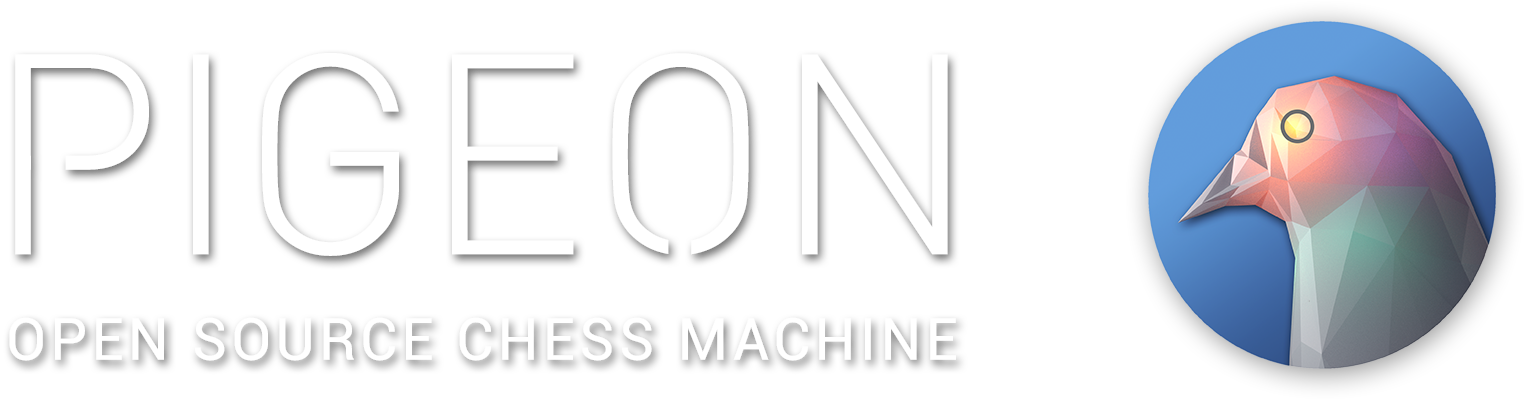
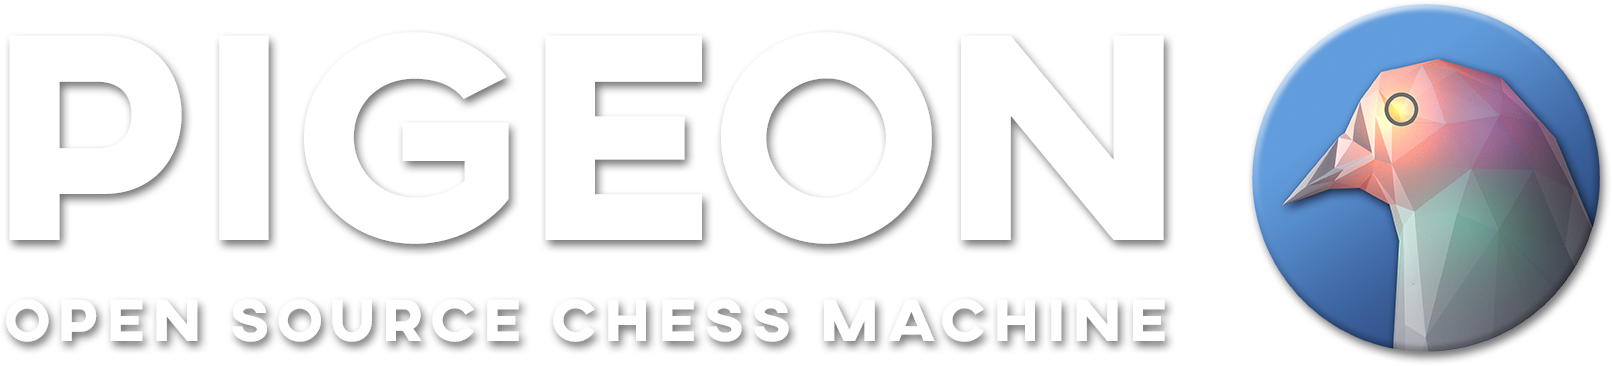
Landing page update

Changed region(s): [[0.0, 0.1202, 0.6767, 0.6913], [0.6767, 0.0, 1.0, 0.9918], [0.0, 0.8115, 0.7382, 0.9617]]

diff --git a/docs/index.html b/docs/index.html
@@ -3,10 +3,11 @@
 <head>
     <meta charset="utf-8">
     <meta name="viewport" content="width=device-width, initial-scale=1">
+    <link rel="shortcut icon" href="./favicon.png" />
     <title>Pigeon Chess Engine</title>
     <style>
         body {
-            font: 1.3em/1.4em Roboto, "Segoe UI", "Helvetica Neue", Helvetica, Arial, sans-serif;
+            font: 1.3em/1.5em "Segoe UI", "Helvetica Neue", Helvetica, Arial, sans-serif;
             color: #000;
             background-color: #eee;
             margin: 0 0;
@@ -47,13 +48,31 @@
             border: 0;            
             padding: 0.7em;
             display: inline-block;
-            border-radius: 0.5em;
+            border-radius: 0.25em;
         }        
         .buttonIcon {
             float: left;
             height: 1.5em;
             width: auto;
         }   
+        .bitmap-row {
+            display: flex;
+            flex-wrap: wrap;
+            gap: 7%;
+            justify-content: center;
+        }
+        .bitmap-row img {
+            width: 40%;
+            height: auto;
+            box-shadow: 0 4px 12px rgba(0, 0, 0, 0.35);
+            /* keeps pixel art crisp; remove if you want smoothing */
+            image-rendering: pixelated;
+        }
+        @media (max-width: 600px) {
+            .bitmap-row img {
+            width: 90%;
+            }
+        }        
     </style>
 </head>
 <body>
@@ -64,31 +83,36 @@
 </div>
 <div class="bodyArea">
     <div class="bodyInner">
-        <p>
             Pigeon is a 64-bit chess engine, written by <a href="https://www.linkedin.com/in/stuartriffle">Stuart Riffle</a>. 
-            It runs on Windows and Linux, and will plug into any UCI-compatible chess GUI (like <a href="http://www.pychess.org/">this one</a>).
-        </p>
-        <p>
-            The latest version is rated about <b>2000</b> against humans online, at both <a href="https://www.chessclub.com/">ICC</a> 
-            and <a href="http://freechess.org/">FICS</a>. That's pretty good, you know, for a bird.
-        </p>
-        <p>
-            When playing against <i>other</i> chess engines, Pigeon has a <a href="http://www.computerchess.org.uk/ccrl/404/">CCRL 40/4</a> 
-            rating around <b>1800</b>, which is... somewhat less good. But it always tries very hard.
-        </p>
-        <p>
+            It runs on Windows and Linux, and will plug into any UCI-compatible <a href="http://www.pychess.org/">chess GUI</a>.
             Full C++ <a href="https://github.com/StuartRiffle/pigeon">source code</a> is available on GitHub,
-            under the terms of the <a href="https://en.wikipedia.org/wiki/MIT_License">MIT license</a>, so knock yourself out.
-        </p>
-        <p id="buttonPart">
+            under the <a href="https://en.wikipedia.org/wiki/MIT_License">MIT license</a>.
+            <br><br>
+            <p id="buttonPart">
+                <a href="pigeon-1.5.0.zip">
+                    <span class="button">
+                        <img class="buttonIcon" src="download-logo.png" />&nbsp;&nbsp;Download Pigeon&nbsp;
+                    </span>
+                </a>    
+            </p>            
+            <br>
+            The latest version is rated about <b>2000</b> against humans online at <a href="https://www.chessclub.com/">ICC</a> 
+            and <a href="http://freechess.org/">FICS</a>, which is pretty good (for a bird). Playing against <i>other</i> chess engines, it has a 
+            <a href="http://www.computerchess.org.uk/ccrl/404/">CCRL 40/4</a> rating of about <b>1750</b>, which is... somewhat less good.
+            But Pigeon always tries very hard. Here it is playing on <a href="https://lichess.org/@/PigeonEngine">lichess</a>:
+            <br>
 
-            <a href="https://github.com/StuartRiffle/pigeon/releases">
-                <span class="button">
-                    <img class="buttonIcon" src="download-logo.png" />&nbsp;&nbsp;Download Pigeon 1.5.1&nbsp;
-                </span>
-            </a>    
-        </p>    </div>
+        <br>
+        <div class="bitmap-row">
+            <img src="games-a.gif" alt="Pigeon on lichess">
+            <img src="games-b.gif" alt="Pigeon on lichess">
+        </div>
+
+        <br>
+    </div>
 </div>
 </body>
 </html>
 <!-- PIGEON CHESS ENGINE copyright (c) 2012-2016 Stuart Riffle -->
+
+